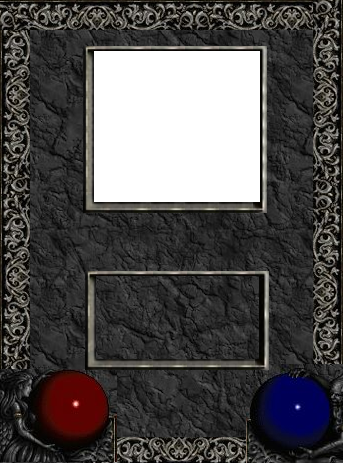
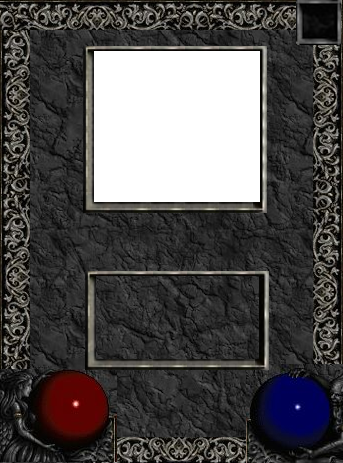
Lets go let's play

Changed region(s): [[0.8455, 0.0, 1.0, 0.121]]

diff --git a/js/game.js b/js/game.js
@@ -1,3 +1,5 @@
+var carteJoeurUID = -1;
+
 function state() {
 	$.ajax({
 		url : "ajax-state.php",
@@ -7,12 +9,27 @@ function state() {
 	var reponse = JSON.parse(msg);
 
 	if (typeof reponse !== "object") {
+		console.log(reponse);
 		if (reponse == "GAME_NOT_FOUND") {
 				// Fin de la partie. Est-ce que j’ai gagné? Je dois appeler user-info
 		}
 	}
 	else {
-		document.getElementById("zoneMain").innerHTML = "";
+		displayGame(reponse);
+	}
+
+
+	setTimeout(state, 1000); // Attendre 1 seconde avant de relancer l’appel
+	})
+}
+
+window.addEventListener("load", () => {
+setTimeout(state, 1000); // Appel initial (attendre 1 seconde)
+
+});
+
+function displayGame(reponse) {
+	document.getElementById("zoneMain").innerHTML = "";
 		for (i in reponse.hand) {
 			var carte = reponse.hand[i];
 			var div = getCarte(carte);
@@ -30,23 +47,53 @@ function state() {
 			document.getElementById("zoneOpponent").appendChild(getCarte(carte));
 		}
 		console.log(reponse.hp, reponse.mp);
-		// maVariable est un objet. On pourrait faire, par exemple, maVariable.game.hp ou
-		// maVariable.player.mp
+}
+
+function carteMainClicked() {
+	carteJoeurUID = -1;
+	console.log("carteCliquer");
+	$.ajax({
+		url: "ajax-game.php",
+		type: "POST",
+		data: {
+			UID : this.querySelector(".zoneUID").innerHTML
+		}
+	})
+	.done(function (msg) {
+	var reponse = JSON.parse(msg); // reponse est le message de retour de la fonction
+	if (typeof reponse !== "object") {
+		console.log(reponse);
 	}
-
-
-	setTimeout(state, 1000); // Attendre 1 seconde avant de relancer l’appel
+	else {
+		displayGame(reponse);
+	}
 	})
 }
 
-window.addEventListener("load", () => {
-setTimeout(state, 1000); // Appel initial (attendre 1 seconde)
+function carteOpponentClicked() {
+	if (carteJoeurUID != -1) {
+		$.ajax({
+			url: "ajax-game.php",
+			type: "POST",
+			data: {
+				UID : carteJoeurUID,
+				targetUID : this.querySelector(".zoneUID").innerHTML
+			}
+		})
+		.done(function (msg) {
+		var reponse = JSON.parse(msg); // reponse est le message de retour de la fonction
+		if (typeof reponse !== "object") {
+			console.log(reponse);
+		}
+		else {
+			displayGame(reponse);
+		}
+		})
+	}
+}
 
-});
-
-function carteMainClicked() {
-	console.log(this.querySelector(".zoneUID").innerHTML);
-
+function carteJoueurClicked() {
+	carteJoeurUID = this.querySelector(".zoneUID").innerHTML;
 }
 
 function getCarte(carte) {
@@ -58,6 +105,7 @@ function getCarte(carte) {
 			div.querySelector(".zoneAttaque").innerHTML = carte.atk;
 			div.querySelector(".zoneMechanic").innerHTML = carte.mechanics;
 			div.querySelector(".zoneSprite").src = getImage(carte.id);
+			div.querySelector(".zoneCost").innerHTML = carte.cost;
 			div.querySelector(".zoneUID").innerHTML = carte.uid;
 	return div
 }

diff --git a/css/style.css b/css/style.css
@@ -114,6 +114,12 @@ canvas {
 	top: 12%;
 }
 
+.zoneCost {
+	top: 0;
+	right: 4%;
+	position: absolute;
+}
+
 .zoneUID {
 	display: none;
 }
@@ -137,7 +143,7 @@ canvas {
 	height: 184px;
 	width: 60%;
 	position: absolute;
-	top: 60%;
+	top: 50%;
 	left: 15%;
 }
 

diff --git a/action/ajax-gameAction.php b/action/ajax-gameAction.php
@@ -10,13 +10,18 @@
 		protected function executeAction() {
 			$result=[];
 			if (isset($_SESSION["key"])) {
+				$data=[];
+				$data["key"] = $_SESSION["key"];
 				if (isset($_POST["UID"]) && !isset($_POST["targetUID"])) {
-					$data=[];
-					$data["key"] = $_SESSION["key"];
 					$data["type"] = "PLAY";
-					$data["uid"] = $_POST["uid"];
-					$result=parent::callAPI("games/action", $data);
+					$data["uid"] = $_POST["UID"];
 				}
+				elseif (isset($_POST["UID"]) && isset($_POST["targetUID"])) {
+					$data["type"] = "ATTACK";
+					$data["uid"] = $_POST["UID"];
+					$data["targetuid"] = $_POST["targetUID"];
+				}
+				$result=parent::callAPI("games/action", $data);
 			}
 
 			return compact("result");

diff --git a/game.php b/game.php
@@ -25,6 +25,7 @@
 	<div class="carte">
 		<div class="CarteSurface"></div>
 		<img class="zoneSprite" src="" alt="Image du monstre">
+		<div class="zoneCost"></div>
 		<div class="zoneMechanic"></div>
 		<div class="zoneVie"></div>
 		<div class="zoneAttaque"></div>
